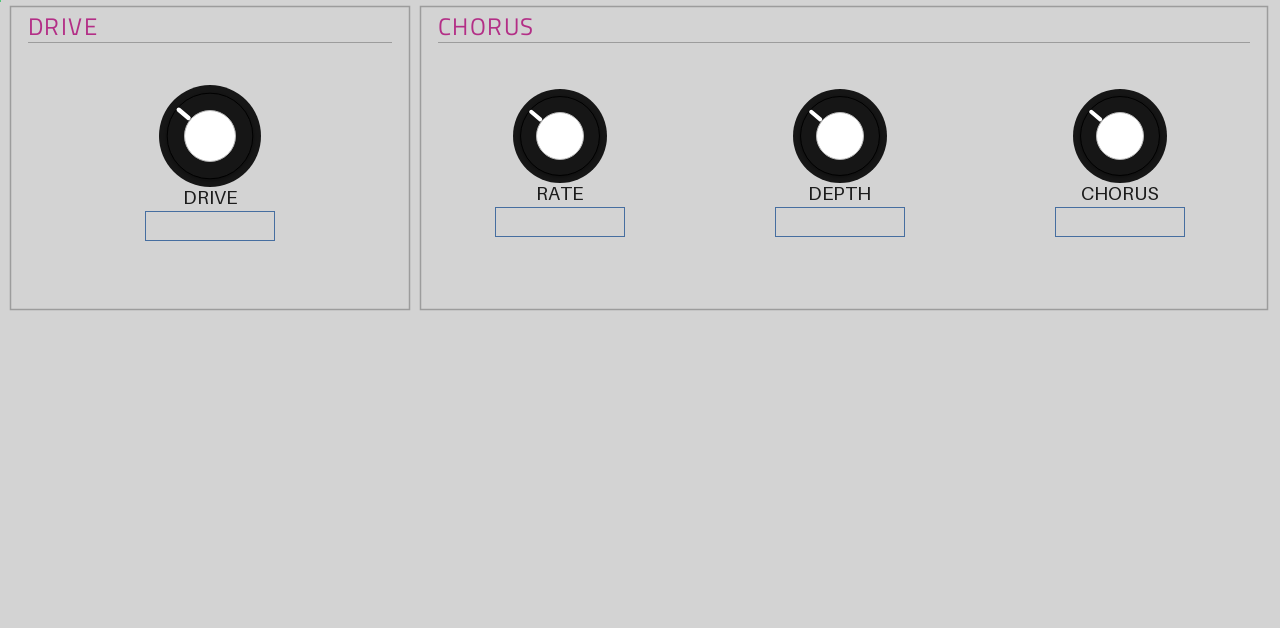
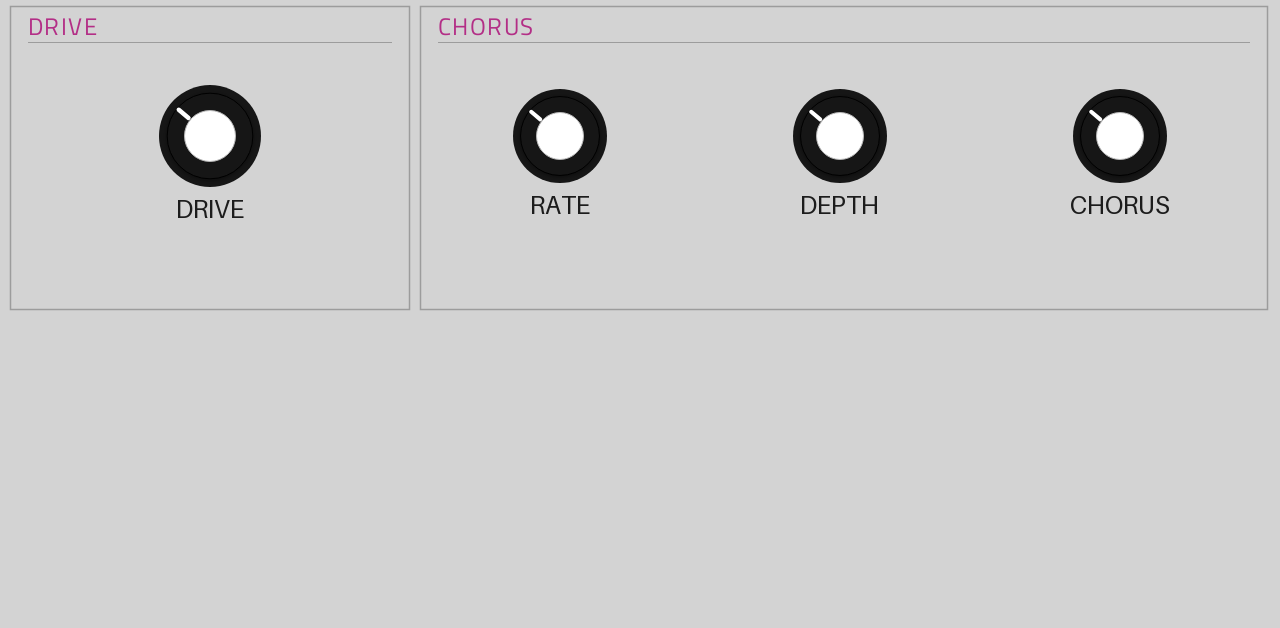
Regenerate skin previews (clean, device-style)
Re-render both pages from the built skin without the preview tool's
value-placeholder outlines and Q-Link debug box, matching the shipped
synth look. Add the REVERB/DELAY page image to the README.

diff --git a/README.md b/README.md
@@ -29,6 +29,8 @@ IN → DRIVE → CHORUS → (dry) ─┬─→ REVERB × send ─┐
 Two touchscreen pages in the Mutable Instruments style — **DRIVE / CHORUS** and **REVERB / DELAY** —
 with a matching Q-Link map.
 
+![Reverb / Delay page](preview_1.png)
+
 ## Status
 
 **Tested only on the MPC One (1st generation / Gen1).** That is the single device it has run on so
